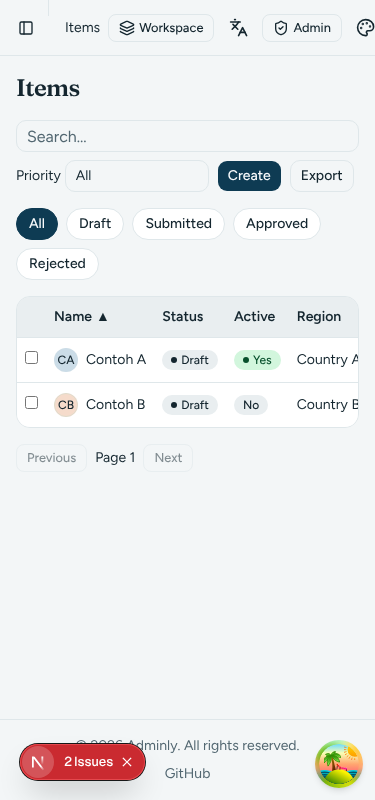
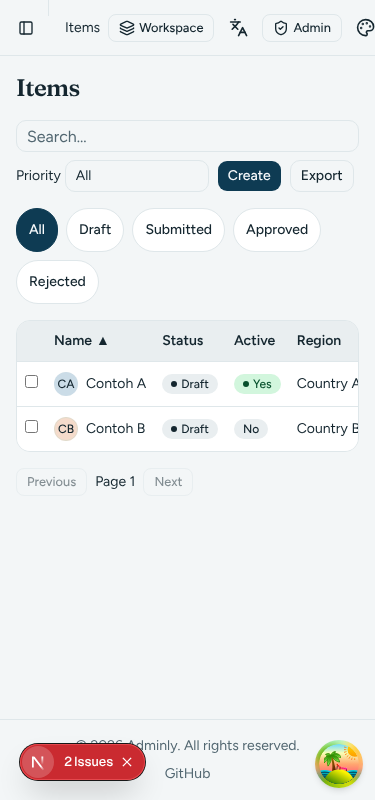
fix(a11y): aria-sort, nama aksesibel, wadah tabel terjangkau keyboard, chip ramah sentuh
Claude-Session: https://claude.ai/code/session_01M8TE12EBiVLPcbwoLQtCjE

diff --git a/src/components/crud/__tests__/resource-table.test.tsx b/src/components/crud/__tests__/resource-table.test.tsx
@@ -891,6 +891,44 @@ describe("ResourceTable", () => {
     }
   });
 
+  it("kotak cari punya nama aksesibel (aria-label), bukan hanya placeholder", async () => {
+    wrap(<ResourceTable def={def} />);
+    await screen.findByText("Alpha");
+    expect(screen.getByPlaceholderText("Search...")).toHaveAttribute("aria-label", "Search...");
+  });
+
+  it("header kolom terurut membawa aria-sort; kolom tak terurut tak membawanya", async () => {
+    wrap(<ResourceTable def={def} />, { searchParams: "sort=nama&order=desc" });
+    await screen.findByText("Beta");
+    const headers = screen.getAllByRole("columnheader");
+    const nama = headers.find((h) => h.textContent?.includes("Name"));
+    expect(nama).toHaveAttribute("aria-sort", "descending");
+    const actions = headers.find((h) => h.textContent === "Actions");
+    expect(actions).not.toHaveAttribute("aria-sort");
+  });
+
+  it("aria-sort: ascending bila urut naik, none bila kolom sortable belum dipilih", async () => {
+    wrap(<ResourceTable def={def} />, { searchParams: "sort=nama&order=asc" });
+    await screen.findByText("Alpha");
+    const nama = screen.getAllByRole("columnheader").find((h) => h.textContent?.includes("Name"));
+    expect(nama).toHaveAttribute("aria-sort", "ascending");
+  });
+
+  it("aria-sort none untuk kolom sortable yang tidak sedang dipakai mengurutkan", async () => {
+    wrap(<ResourceTable def={def} />);
+    await screen.findByText("Alpha");
+    const nama = screen.getAllByRole("columnheader").find((h) => h.textContent?.includes("Name"));
+    expect(nama).toHaveAttribute("aria-sort", "none");
+  });
+
+  it("wadah tabel yang bisa digulir terjangkau papan ketik (tabIndex 0, role region, bernama)", async () => {
+    wrap(<ResourceTable def={def} />);
+    await screen.findByText("Alpha");
+    const region = screen.getByRole("region", { name: "Items" });
+    expect(region).toHaveAttribute("tabindex", "0");
+    expect(region).toHaveAttribute("data-slot", "table-container");
+  });
+
   it("menampilkan tombol aksi transisi yang diizinkan dari status baris (gated <Can>), TIDAK menampilkan yang tak diizinkan", async () => {
     // Baris "submitted" -> transisi diizinkan: approve+reject (butuh
     // `items:approve`, dipunyai Admin). Baris "approved" -> tak ada transisi

diff --git a/src/components/crud/resource-table.tsx b/src/components/crud/resource-table.tsx
@@ -410,6 +410,7 @@ export function ResourceTable({ def }: { def: ResourceDef }) {
       <div className="flex flex-wrap items-center gap-2">
         <Input
           placeholder={t.common.searchPlaceholder}
+          aria-label={t.common.searchPlaceholder}
           value={searchInput}
           onChange={(e) => setSearchInput(e.target.value)}
           onKeyDown={(e) => {
@@ -506,6 +507,12 @@ export function ResourceTable({ def }: { def: ResourceDef }) {
           HANYA untuk load pertama (`isPending`), lihat `<TableBody>`. */}
       <Table
         containerClassName="max-h-[70vh] overflow-y-auto rounded-xl border bg-card"
+        // Wadah yang bisa digulir harus terjangkau papan ketik (WCAG 2.1.1).
+        containerProps={{
+          tabIndex: 0,
+          role: "region",
+          "aria-label": resolveLabel(t, `${def.name}.title`),
+        }}
         aria-busy={query.isFetching && !query.isPending}
         className={
           query.isFetching && !query.isPending ? "opacity-60 transition-opacity" : undefined
@@ -516,7 +523,19 @@ export function ResourceTable({ def }: { def: ResourceDef }) {
             <TableRow key={headerGroup.id}>
               <TableHead className="sticky top-0 z-10 bg-muted font-semibold w-8" />
               {headerGroup.headers.map((header) => (
-                <TableHead key={header.id} className="sticky top-0 z-10 bg-muted font-semibold">
+                <TableHead
+                  key={header.id}
+                  className="sticky top-0 z-10 bg-muted font-semibold"
+                  aria-sort={
+                    header.column.getCanSort()
+                      ? header.column.getIsSorted() === "asc"
+                        ? "ascending"
+                        : header.column.getIsSorted() === "desc"
+                          ? "descending"
+                          : "none"
+                      : undefined
+                  }
+                >
                   {header.column.getCanSort() ? (
                     <button
                       type="button"

diff --git a/src/components/ui/__tests__/combobox.test.tsx b/src/components/ui/__tests__/combobox.test.tsx
@@ -96,4 +96,20 @@ describe("Combobox", () => {
     await user.click(trigger);
     expect(screen.queryByRole("option")).not.toBeInTheDocument();
   });
+
+  it("kotak cari di dalam panel punya nama aksesibel", async () => {
+    const { user } = setup();
+    await user.click(screen.getByRole("button"));
+    expect(await screen.findByPlaceholderText("Cari…")).toHaveAttribute("aria-label", "Cari…");
+  });
+
+  it("label opsi terpilih dipotong (truncate) dan tombol boleh menyempit (min-w-0)", () => {
+    const panjang = "Label yang sangat panjang ".repeat(10).trim();
+    setup({ options: [{ value: "x", label: panjang }], value: "x" });
+    const trigger = screen.getByRole("button");
+    const label = screen.getByText(panjang);
+    expect(label.className).toContain("truncate");
+    expect(trigger.className).toContain("min-w-0");
+    expect(trigger).toContainElement(label);
+  });
 });

diff --git a/src/components/ui/combobox.tsx b/src/components/ui/combobox.tsx
@@ -86,17 +86,17 @@ function Combobox({
           <Button
             ref={ref}
             variant="outline"
-            className={cn("w-full justify-start font-normal", className)}
+            className={cn("w-full min-w-0 justify-start font-normal", className)}
             aria-invalid={invalid}
             disabled={disabled}
           />
         }
       >
-        {selected?.label ?? placeholder}
+        <span className="truncate">{selected?.label ?? placeholder}</span>
       </PopoverTrigger>
       <PopoverContent className="w-full p-0">
         <Command>
-          <CommandInput placeholder={searchPlaceholder} />
+          <CommandInput placeholder={searchPlaceholder} aria-label={searchPlaceholder} />
           <CommandList>
             <CommandEmpty>{emptyLabel}</CommandEmpty>
             <CommandGroup>

diff --git a/src/components/ui/filter-chips.tsx b/src/components/ui/filter-chips.tsx
@@ -45,7 +45,7 @@ function FilterChips({
             aria-pressed={active}
             onClick={() => onChange(chip.value)}
             className={cn(
-              "inline-flex h-8 items-center rounded-full border px-3 text-sm font-medium whitespace-nowrap transition-colors outline-none focus-visible:ring-[3px] focus-visible:ring-ring/50",
+              "inline-flex h-8 touch-manipulation items-center rounded-full max-sm:h-11 border px-3 text-sm font-medium whitespace-nowrap transition-colors outline-none focus-visible:ring-[3px] focus-visible:ring-ring/50",
               active
                 ? "border-primary bg-primary text-primary-foreground"
                 : "border-border bg-card text-foreground hover:bg-muted"

diff --git a/src/components/ui/table.tsx b/src/components/ui/table.tsx
@@ -7,11 +7,17 @@ import { cn } from "@/lib/utils"
 function Table({
   className,
   containerClassName,
+  containerProps,
   ...props
-}: React.ComponentProps<"table"> & { containerClassName?: string }) {
+}: React.ComponentProps<"table"> & {
+  containerClassName?: string
+  /** Atribut tambahan untuk wadah gulir (mis. `tabIndex`, `role`, `aria-label`). */
+  containerProps?: React.ComponentProps<"div">
+}) {
   return (
     <div
       data-slot="table-container"
+      {...containerProps}
       className={cn("relative w-full overflow-x-auto", containerClassName)}
     >
       <table

diff --git a/src/components/ui/__tests__/filter-chips.test.tsx b/src/components/ui/__tests__/filter-chips.test.tsx
@@ -74,4 +74,12 @@ describe("FilterChips", () => {
     await user.keyboard(" ");
     expect(onChange).toHaveBeenLastCalledWith("approved");
   });
+
+  it("chip ramah sentuh: touch-manipulation dan target lebih tinggi di layar kecil", () => {
+    setup();
+    for (const chip of screen.getAllByRole("button")) {
+      expect(chip.className).toContain("touch-manipulation");
+      expect(chip.className).toContain("max-sm:h-11");
+    }
+  });
 });
